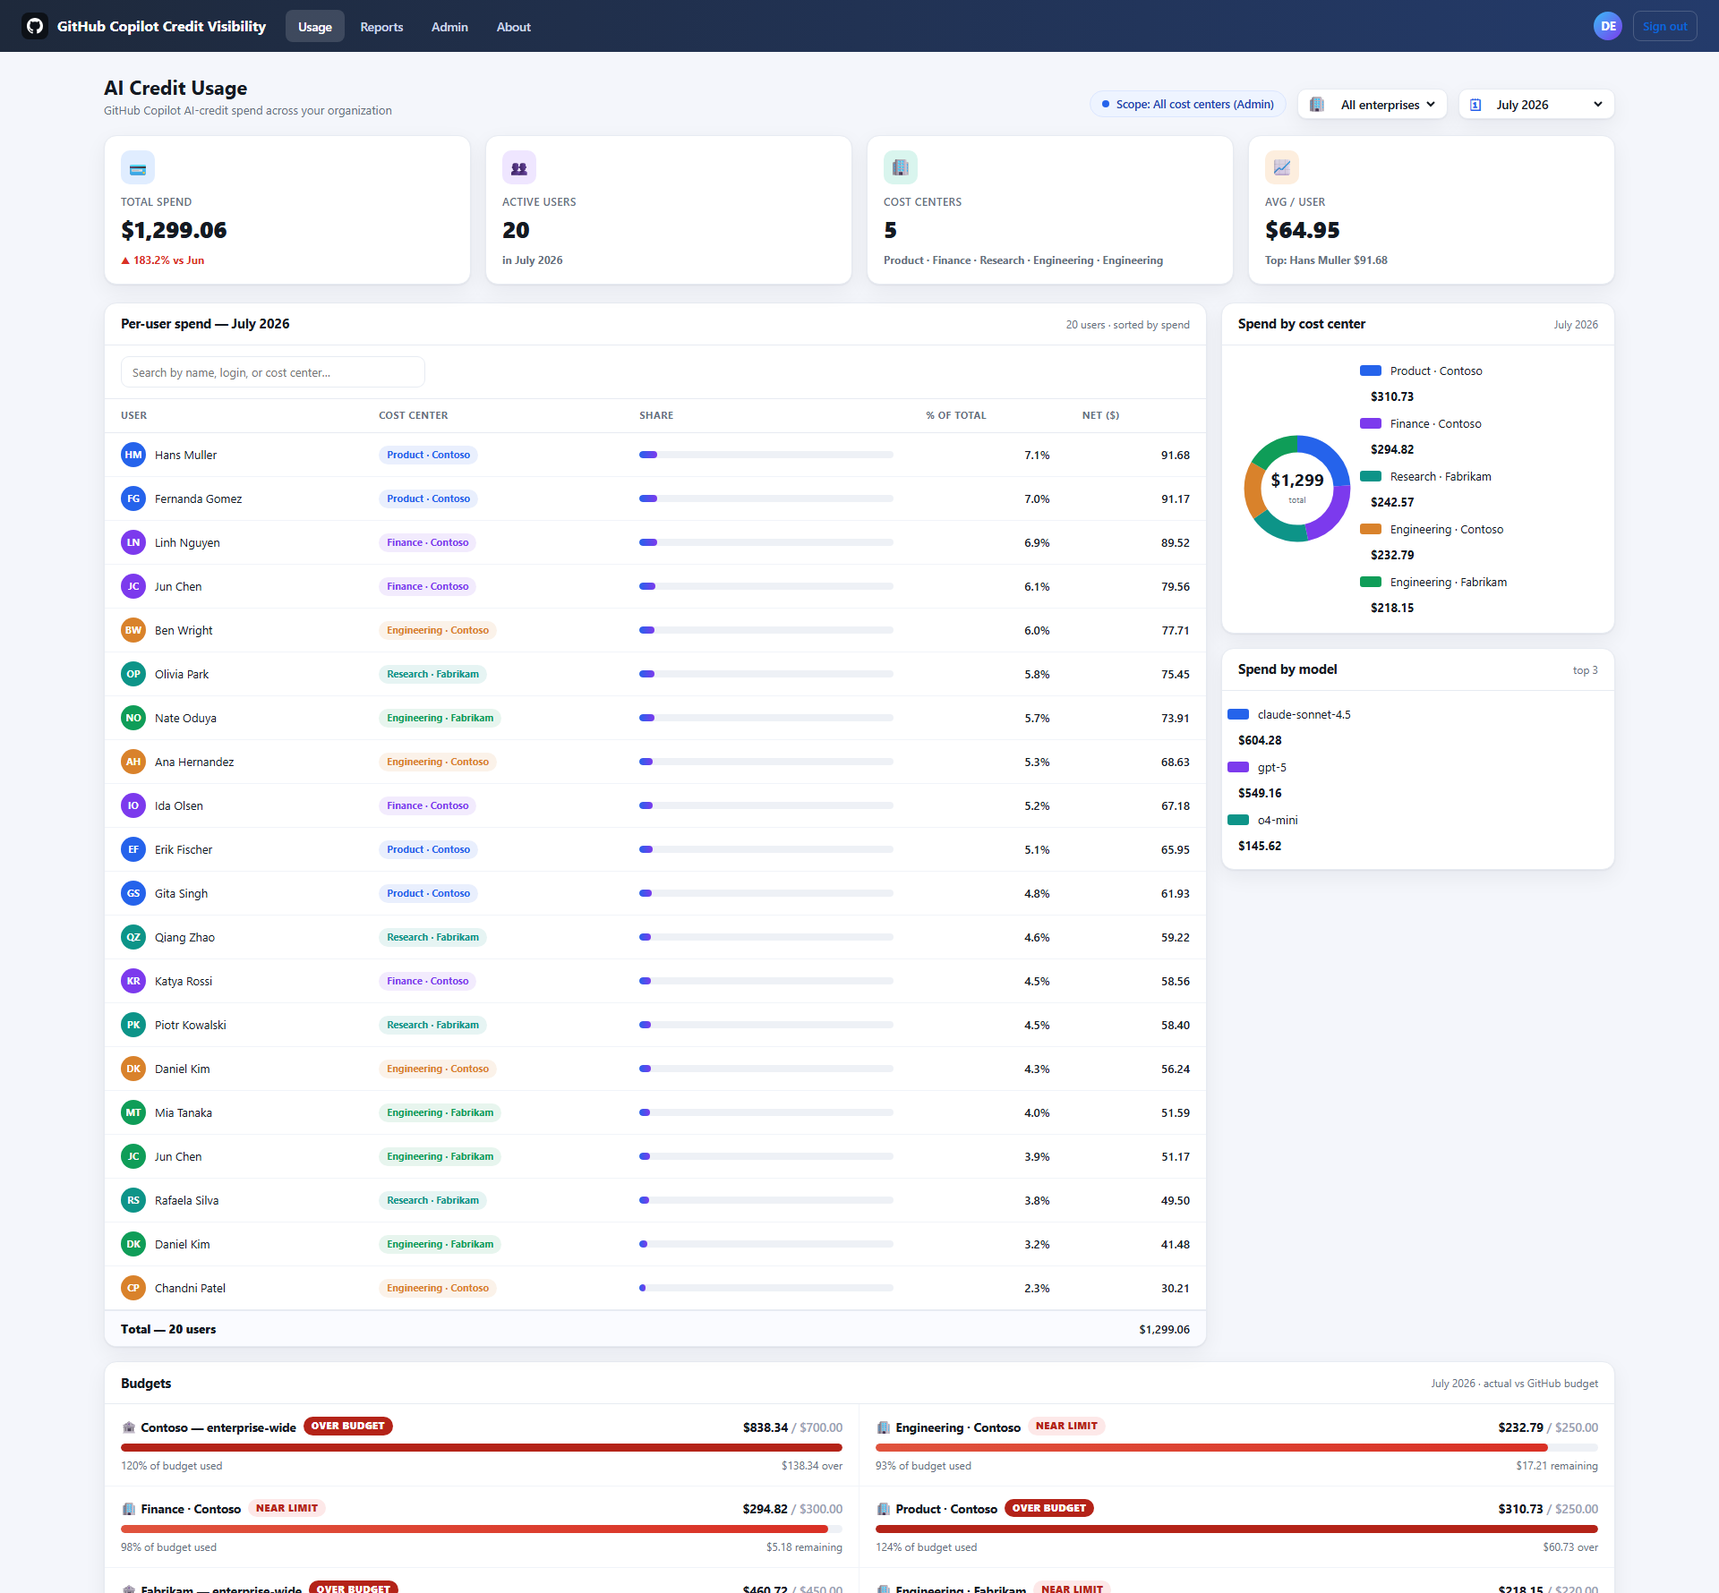
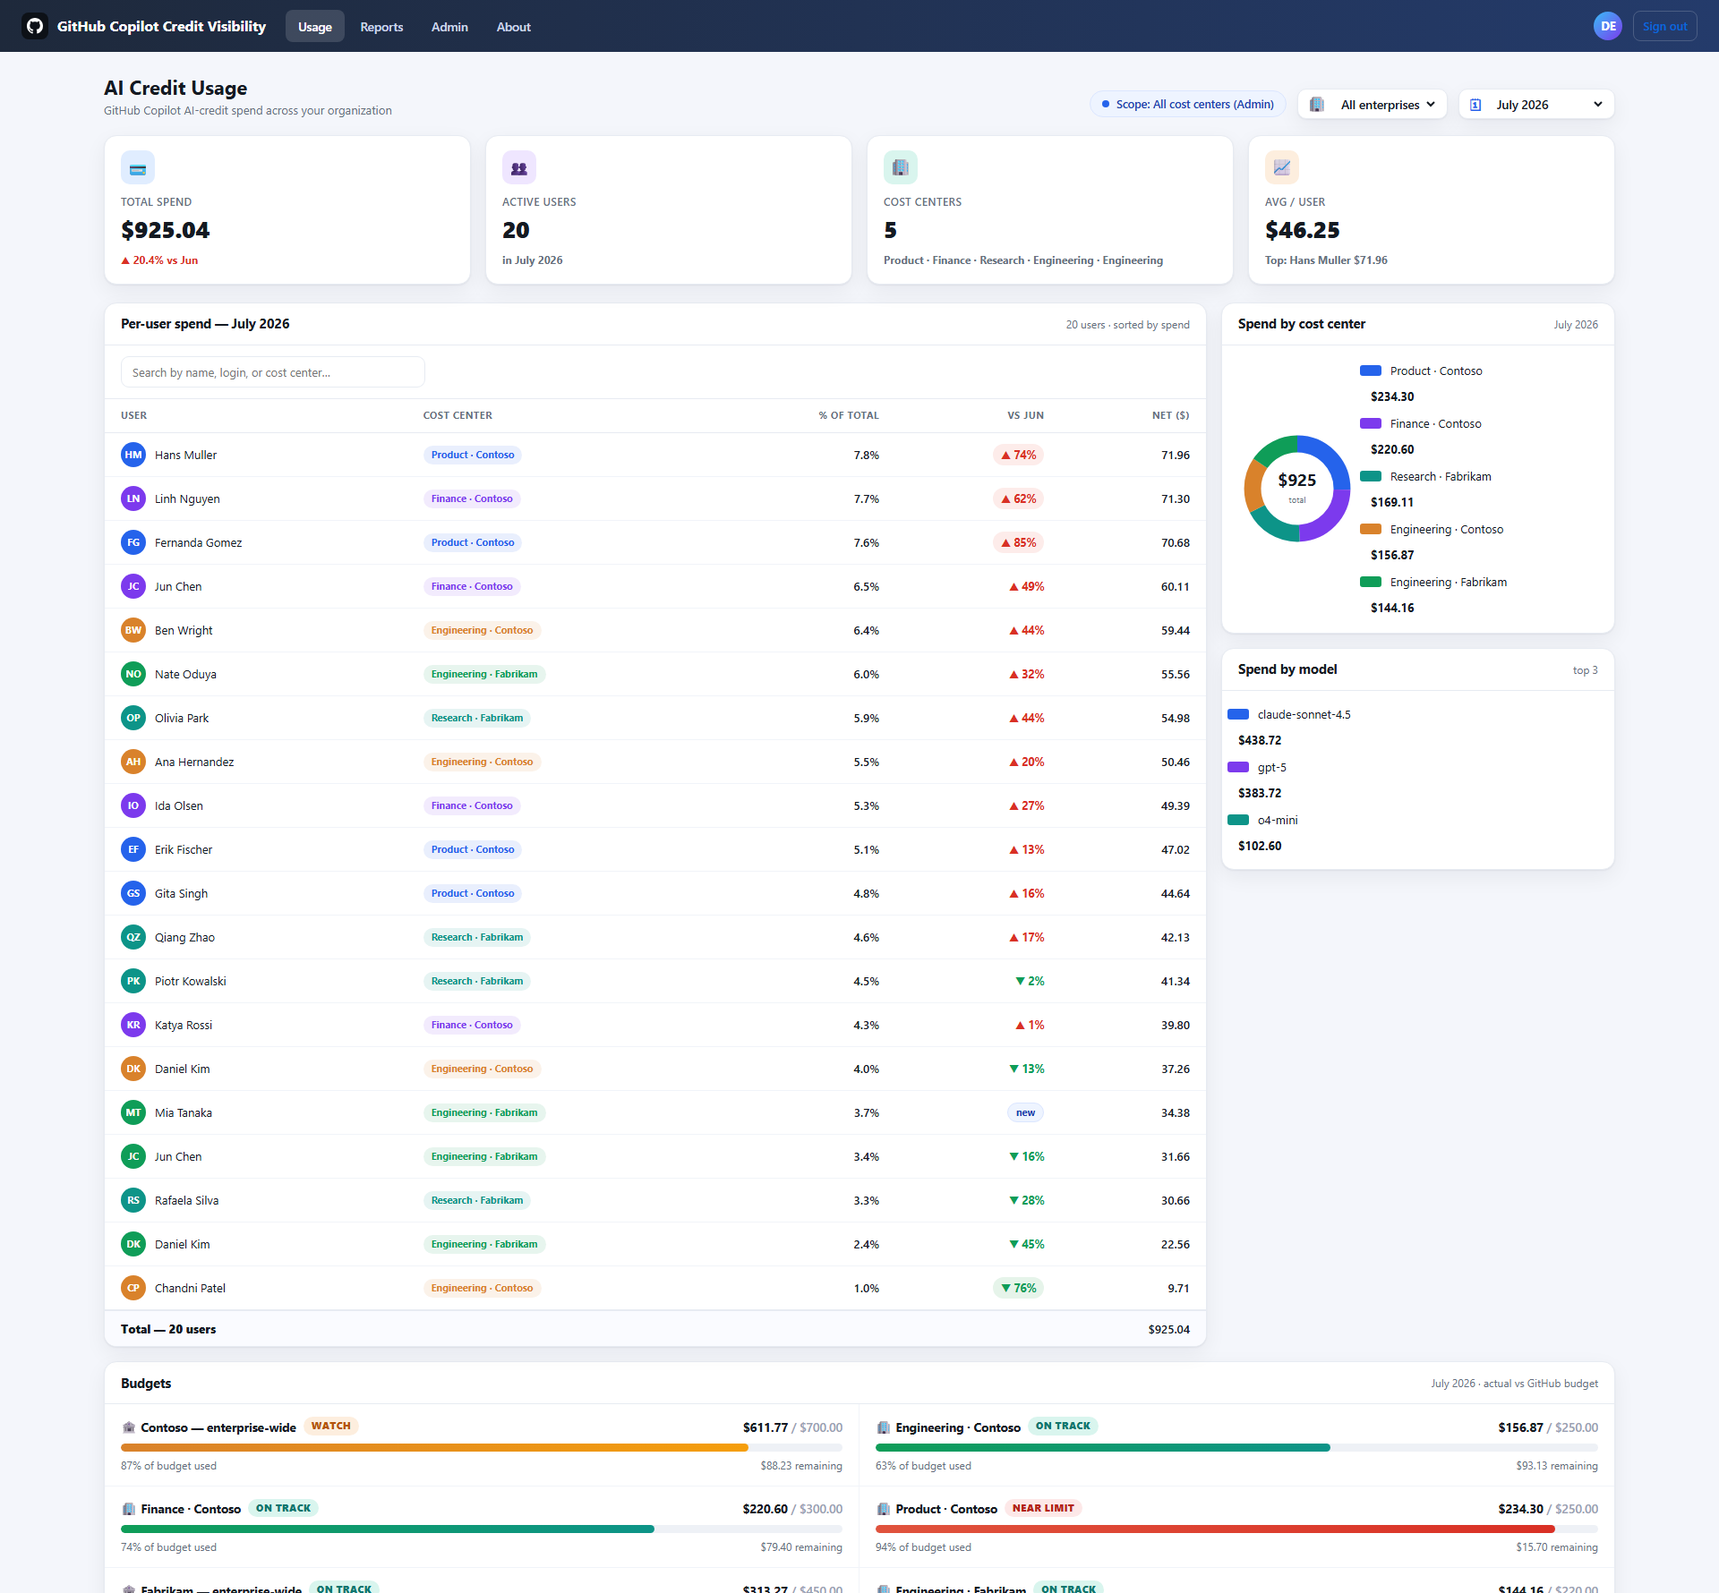
Per-user table: drop the Share bar, add a month-over-month delta column
- The Share bar column duplicated the % of total number while consuming
  the widest flexible column on the page; removed from the dashboard
  per-user table and the Reports breakdown table.
- New "vs <previous month>" column in its place: quiet up/down arrows for
  normal movement, a tinted pill for moves of +/-50% or more (the "who
  suddenly changed" signal), and a "new" badge for first-month spend.
  Deltas join strictly by (enterprise, login) - the same login in two
  enterprises never mixes months across enterprises. When the previous
  month has no data at all (first month / newly onboarded enterprise)
  the column renders em-dashes instead of flagging everyone "new".
- Numeric column HEADERS now right-align with their values (th.num) -
  they previously sat left-aligned over right-aligned numbers.
- Dev-seed fix: fabricated daily history now stops at the end of last
  month (the snapshot job owns the current month), removing the
  double-count that spiked the current month in trends and flagged every
  user as a big mover; daily quantities tuned so months are comparable,
  and mtanaka seeds as a recent joiner to demo the "new" badge.
- Tests: delta join semantics + no-previous-month behavior (40 passing).
- dashboard.png / reports.png recaptured.

diff --git a/GhcpCreditVisibility/wwwroot/css/site.css b/GhcpCreditVisibility/wwwroot/css/site.css
@@ -188,16 +188,23 @@ body { background:var(--gh-bg); color:var(--gh-ink); font-family:'Segoe UI',-app
 .gh-card table{width:100%;border-collapse:collapse;}
 .gh-card th,.gh-card td{padding:10px 18px;text-align:left;font-size:13px;}
 .gh-card thead th{color:var(--gh-muted);font-size:11px;text-transform:uppercase;letter-spacing:.5px;border-bottom:1px solid var(--gh-line);}
+/* Numeric column HEADERS align with their right-aligned values — without this the header sits
+   left-aligned over right-aligned numbers and the column reads as offset. */
+.gh-card th.num{text-align:right;}
 .gh-card tbody tr{border-bottom:1px solid #f1f4f9;}
 .gh-card tbody tr:hover{background:#fafbff;}
 .gh-card td.num{text-align:right;font-variant-numeric:tabular-nums;font-weight:600;}
 .gh-card tfoot td{font-weight:800;border-top:2px solid var(--gh-line);background:#fafbff;}
 .gh-who{display:flex;align-items:center;gap:10px;}
 .gh-mini{width:28px;height:28px;border-radius:50%;display:grid;place-items:center;color:#fff;font-weight:700;font-size:11px;flex:0 0 auto;}
-.gh-barcell{min-width:120px;}
-.gh-bar{height:8px;border-radius:6px;background:#eef1f6;overflow:hidden;}
-.gh-bar > i{display:block;height:100%;border-radius:6px;background:linear-gradient(90deg,var(--gh-brand),var(--gh-brand2));}
 .gh-ccpill{font-size:11px;font-weight:700;padding:2px 9px;border-radius:999px;display:inline-block;}
+/* Month-over-month delta column: quiet arrows for normal movement; a tinted pill for big
+   movers (>= threshold); a "new" badge for first-month spend. */
+.gh-delta{font-variant-numeric:tabular-nums;font-weight:700;font-size:12.5px;white-space:nowrap;}
+.gh-delta.up{color:var(--gh-bad);} .gh-delta.down{color:var(--gh-good);}
+.gh-delta-pill{padding:2px 9px;border-radius:999px;display:inline-block;}
+.gh-delta-pill.up{background:#fdecea;} .gh-delta-pill.down{background:#e6f4ea;}
+.gh-new{font-size:11px;font-weight:700;color:#1e40af;background:#eef4ff;border:1px solid #dbe6ff;padding:2px 9px;border-radius:999px;display:inline-block;}
 
 /* Per-user table search + pagination */
 .gh-usersearch{display:flex;align-items:center;gap:10px;padding:12px 18px;border-bottom:1px solid var(--gh-line);}

diff --git a/GhcpCreditVisibility/Services/UsageQueryService.cs b/GhcpCreditVisibility/Services/UsageQueryService.cs
@@ -18,7 +18,10 @@ namespace GhcpCreditVisibility.Services
         // GrossAmount is carried alongside NetAmount so the dashboard can optionally show real
         // usage activity even when it's fully covered by an included allowance (NetAmount = 0) —
         // see the "Dashboard:ShowGrossUsage" feature flag.
-        public sealed record UserMonthTotal(string UserLogin, string? UserName, string? CostCenterId, string? CostCenterName, decimal NetAmount, decimal GrossAmount = 0m, long EnterpriseId = 0, string? EnterpriseName = null);
+        /// <summary>PrevMonthNetAmount: the same (enterprise, login)'s total for the previous month —
+        /// null when the user had no rows then. Only populated by the paged dashboard query, and only
+        /// meaningful when the page reports the previous month has data at all.</summary>
+        public sealed record UserMonthTotal(string UserLogin, string? UserName, string? CostCenterId, string? CostCenterName, decimal NetAmount, decimal GrossAmount = 0m, long EnterpriseId = 0, string? EnterpriseName = null, decimal? PrevMonthNetAmount = null);
         public sealed record CostCenterTotal(string? CostCenterId, string? CostCenterName, decimal NetAmount, decimal GrossAmount = 0m, long EnterpriseId = 0, string? EnterpriseName = null);
         public sealed record ModelTotal(string Model, decimal NetAmount, decimal GrossAmount = 0m);
         public sealed record TrendPoint(int Year, int Month, decimal NetAmount);
@@ -140,7 +143,11 @@ namespace GhcpCreditVisibility.Services
             decimal TotalSpend,
             decimal TotalGrossSpend,
             decimal MaxUserNet,
-            UserMonthTotal? TopUser);
+            UserMonthTotal? TopUser,
+            // False when the previous month has no rows in scope at all (first month of a
+            // deployment / newly onboarded enterprise): per-user deltas would then flag EVERY
+            // user as "new", which is noise — the UI renders em-dashes instead.
+            bool HasPrevMonthData = false);
 
         /// <summary>
         /// Search + page the per-user monthly breakdown entirely in the database: the GROUP BY, search
@@ -190,10 +197,31 @@ namespace GhcpCreditVisibility.Services
                 .ToListAsync(ct);
             var currentNames = await LoadCurrentNamesAsync(db, ct);
             var entNames = await LoadEnterpriseNamesAsync(db, ct);
+
+            // ── Previous-month per-user totals, for the "vs <prev month>" delta column ──
+            // Same scope, previous calendar month, grouped by (enterprise, login) — the login alone
+            // is NOT the identity (the same login in two enterprises is two billed seats). Only the
+            // current page's logins are fetched.
+            var prevMonthStart = new DateTime(year, month, 1, 0, 0, 0, DateTimeKind.Utc).AddMonths(-1);
+            var prevScoped = ApplyScope(db.UsageSnapshots.Where(x => x.Year == prevMonthStart.Year && x.Month == prevMonthStart.Month), scope);
+            var hasPrevMonthData = await prevScoped.AnyAsync(ct);
+            var prevByUser = new Dictionary<(long EnterpriseId, string UserLogin), decimal>();
+            if (hasPrevMonthData && pageRows.Count > 0)
+            {
+                var pageLogins = pageRows.Select(r => r.UserLogin).Distinct().ToList();
+                var prevRows = await prevScoped
+                    .Where(x => pageLogins.Contains(x.UserLogin))
+                    .GroupBy(x => new { x.EnterpriseId, x.UserLogin })
+                    .Select(g => new { g.Key.EnterpriseId, g.Key.UserLogin, Net = g.Sum(v => v.NetAmount) })
+                    .ToListAsync(ct);
+                prevByUser = prevRows.ToDictionary(r => (r.EnterpriseId, r.UserLogin), r => r.Net);
+            }
+
             var items = pageRows
                 .Select(r => new UserMonthTotal(r.UserLogin, r.UserName, r.CostCenterId,
                     ResolveName(currentNames, r.EnterpriseId, r.CostCenterId, r.CostCenterName),
-                    r.NetAmount, r.GrossAmount, r.EnterpriseId, entNames.GetValueOrDefault(r.EnterpriseId)))
+                    r.NetAmount, r.GrossAmount, r.EnterpriseId, entNames.GetValueOrDefault(r.EnterpriseId),
+                    prevByUser.TryGetValue((r.EnterpriseId, r.UserLogin), out var prevNet) ? prevNet : null))
                 .ToList();
 
             // Month-level KPIs (total spend, top user, distinct user count) are independent of the
@@ -213,7 +241,7 @@ namespace GhcpCreditVisibility.Services
                     ResolveName(currentNames, topRow.EnterpriseId, topRow.CostCenterId, topRow.CostCenterName),
                     topRow.NetAmount, topRow.GrossAmount, topRow.EnterpriseId, entNames.GetValueOrDefault(topRow.EnterpriseId));
 
-            return new UserMonthPage(items, matchingUserCount, totalUserCount, totalSpend, totalGrossSpend, maxUserNet, topUser);
+            return new UserMonthPage(items, matchingUserCount, totalUserCount, totalSpend, totalGrossSpend, maxUserNet, topUser, hasPrevMonthData);
         }
 
         public async Task<IReadOnlyList<CostCenterTotal>> GetCostCenterTotalsAsync(int year, int month, UserScope scope, CancellationToken ct = default)

diff --git a/GhcpCreditVisibility.Tests/MultiEnterpriseTests.cs b/GhcpCreditVisibility.Tests/MultiEnterpriseTests.cs
@@ -301,6 +301,53 @@ public class EnterpriseScopeTests
     }
 
     [Fact]
+    public async Task Prev_month_deltas_join_by_enterprise_and_login()
+    {
+        var factory = NewFactory();
+        await using (var db = await factory.CreateDbContextAsync())
+        {
+            db.Enterprises.Add(new Enterprise { Slug = "contoso", DisplayName = "Contoso", UseMockData = true });
+            db.Enterprises.Add(new Enterprise { Slug = "fabrikam", DisplayName = "Fabrikam", UseMockData = true });
+            // July rows: dkim exists in BOTH enterprises; mtanaka only has July (a "new" user).
+            db.UsageSnapshots.Add(new UsageSnapshot { EnterpriseId = 1, Year = 2026, Month = 7, Day = 1, UserLogin = "dkim", CostCenterId = "cc-a", Model = "gpt-5", Sku = "ai_credits", Product = "copilot", NetAmount = 50m });
+            db.UsageSnapshots.Add(new UsageSnapshot { EnterpriseId = 2, Year = 2026, Month = 7, Day = 1, UserLogin = "dkim", CostCenterId = "cc-b", Model = "gpt-5", Sku = "ai_credits", Product = "copilot", NetAmount = 40m });
+            db.UsageSnapshots.Add(new UsageSnapshot { EnterpriseId = 1, Year = 2026, Month = 7, Day = 1, UserLogin = "mtanaka", CostCenterId = "cc-a", Model = "gpt-5", Sku = "ai_credits", Product = "copilot", NetAmount = 10m });
+            // June rows: dkim spent 25 in enterprise 1 and 80 in enterprise 2 — the deltas must NOT mix.
+            db.UsageSnapshots.Add(new UsageSnapshot { EnterpriseId = 1, Year = 2026, Month = 6, Day = 1, UserLogin = "dkim", CostCenterId = "cc-a", Model = "gpt-5", Sku = "ai_credits", Product = "copilot", NetAmount = 25m });
+            db.UsageSnapshots.Add(new UsageSnapshot { EnterpriseId = 2, Year = 2026, Month = 6, Day = 1, UserLogin = "dkim", CostCenterId = "cc-b", Model = "gpt-5", Sku = "ai_credits", Product = "copilot", NetAmount = 80m });
+            await db.SaveChangesAsync();
+        }
+        var query = new UsageQueryService(factory);
+
+        var page = await query.GetUserTotalsPagedAsync(2026, 7, UserScope.All(), search: null, page: 1, pageSize: 25);
+
+        Assert.True(page.HasPrevMonthData);
+        var dkimEnt1 = page.Items.Single(i => i.UserLogin == "dkim" && i.EnterpriseId == 1);
+        var dkimEnt2 = page.Items.Single(i => i.UserLogin == "dkim" && i.EnterpriseId == 2);
+        Assert.Equal(25m, dkimEnt1.PrevMonthNetAmount); // enterprise 1's June, never enterprise 2's
+        Assert.Equal(80m, dkimEnt2.PrevMonthNetAmount);
+        Assert.Null(page.Items.Single(i => i.UserLogin == "mtanaka").PrevMonthNetAmount); // "new"
+    }
+
+    [Fact]
+    public async Task First_month_of_data_reports_no_prev_month()
+    {
+        var factory = NewFactory();
+        await using (var db = await factory.CreateDbContextAsync())
+        {
+            db.Enterprises.Add(new Enterprise { Slug = "contoso", DisplayName = "Contoso", UseMockData = true });
+            db.UsageSnapshots.Add(new UsageSnapshot { EnterpriseId = 1, Year = 2026, Month = 7, Day = 1, UserLogin = "a", CostCenterId = "cc-a", Model = "gpt-5", Sku = "ai_credits", Product = "copilot", NetAmount = 10m });
+            await db.SaveChangesAsync();
+        }
+        var query = new UsageQueryService(factory);
+
+        var page = await query.GetUserTotalsPagedAsync(2026, 7, UserScope.All(), search: null, page: 1, pageSize: 25);
+
+        // No June data at all: the UI must render em-dashes, not flag every user "new".
+        Assert.False(page.HasPrevMonthData);
+    }
+
+    [Fact]
     public async Task Cross_enterprise_scope_unions_pairs()
     {
         var factory = await SeedTwoEnterprisesAsync();

diff --git a/GhcpCreditVisibility/Pages/Index.cshtml.cs b/GhcpCreditVisibility/Pages/Index.cshtml.cs
@@ -28,6 +28,9 @@ namespace GhcpCreditVisibility.Pages
         [BindProperty(SupportsGet = true)] public long? Ent { get; set; }           // enterprise filter (null = all in scope)
 
         public const int UserPageSize = 25;
+        /// <summary>A month-over-month move of at least this % renders as a highlighted pill in the
+        /// per-user table — the "who suddenly changed" signal.</summary>
+        public const double BigMoveThresholdPct = 50;
 
         public int Year { get; private set; }
         public int Month { get; private set; }
@@ -42,6 +45,8 @@ namespace GhcpCreditVisibility.Pages
         public IReadOnlyList<UsageQueryService.UserMonthTotal> DisplayUsers { get; private set; } = Array.Empty<UsageQueryService.UserMonthTotal>();
         /// <summary>Count of users matching <see cref="UserSearch"/> (all users if no search term) — drives the pagination controls and the "N match" label.</summary>
         public int MatchingUserCount { get; private set; }
+        /// <summary>False when the previous month has no data in scope — per-user deltas render as em-dashes instead of flagging everyone "new".</summary>
+        public bool HasPrevUserDeltas { get; private set; }
         public int UserPageCount { get; private set; } = 1;
         public IReadOnlyList<UsageQueryService.CostCenterTotal> CostCenters { get; private set; } = Array.Empty<UsageQueryService.CostCenterTotal>();
         public IReadOnlyList<UsageQueryService.ModelTotal> Models { get; private set; } = Array.Empty<UsageQueryService.ModelTotal>();
@@ -122,6 +127,7 @@ namespace GhcpCreditVisibility.Pages
             }
             DisplayUsers = userPage.Items;
             MatchingUserCount = userPage.MatchingUserCount;
+            HasPrevUserDeltas = userPage.HasPrevMonthData;
 
             // Headline KPIs derived from the scoped month (independent of search/paging).
             TotalSpend = userPage.TotalSpend;

diff --git a/GhcpCreditVisibility/Services/MockGitHubBillingClient.cs b/GhcpCreditVisibility/Services/MockGitHubBillingClient.cs
@@ -259,12 +259,19 @@ namespace GhcpCreditVisibility.Services
                 bool weekend = day.DayOfWeek is DayOfWeek.Saturday or DayOfWeek.Sunday;
                 foreach (var s in seed.Users)
                 {
+                    // "mtanaka" (fabrikam) is a deliberate recent joiner: no fabricated history, so
+                    // her first snapshot month renders the "new" badge in the per-user delta column.
+                    if (string.Equals(s.Login, "mtanaka", StringComparison.OrdinalIgnoreCase)) continue;
                     var cc = seed.CostCenters.First(c => c.Id == s.CostCenterId);
                     var rng = new Random(StableSeed(enterpriseSlug + "|" + s.Login) + day.Year * 10000 + day.Month * 100 + day.Day);
                     foreach (var (model, price) in Models)
                     {
-                        var qty = rng.Next(0, weekend ? 6 : 22); // credits used that day for this model
-                        if (qty == 0) continue;                  // some days a user doesn't touch a model
+                        // Daily quantities are tuned so a full fabricated month lands in the same
+                        // ballpark as the snapshot job's current-month aggregates (avg ~$40/user) —
+                        // month-over-month deltas then spread realistically around zero instead of
+                        // uniformly spiking on the seam between fabricated and snapshotted months.
+                        var qty = rng.Next(0, weekend ? 10 : 38); // credits used that day for this model
+                        if (qty == 0) continue;                   // some days a user doesn't touch a model
                         var net = Math.Round(qty * price, 2);
                         rows.Add(new Data.UsageSnapshot
                         {

diff --git a/GhcpCreditVisibility/Program.cs b/GhcpCreditVisibility/Program.cs
@@ -147,13 +147,18 @@ if (app.Environment.IsDevelopment() && useLocalDevDb)
     }
     var seedEnterprises = db.Enterprises.OrderBy(e => e.Id).ToList();
 
-    // Backfill synthetic usage history per enterprise so the trend + month selector have data locally.
+    // Backfill synthetic usage history per enterprise so the trend + month selector have data
+    // locally — but only up to the END OF LAST MONTH. The snapshot job owns the current month
+    // (it writes the monthly aggregate rows on startup); seeding daily rows for the current month
+    // too would DOUBLE-COUNT it, spiking the trend chart and flagging every user as a big
+    // month-over-month mover.
     if (!db.UsageSnapshots.Any())
     {
+        var endOfLastMonth = new DateTime(DateTime.UtcNow.Year, DateTime.UtcNow.Month, 1, 0, 0, 0, DateTimeKind.Utc).AddDays(-1);
         foreach (var e in seedEnterprises)
         {
             db.UsageSnapshots.AddRange(
-                GhcpCreditVisibility.Services.MockGitHubBillingClient.BuildHistorySnapshots(12, DateTime.UtcNow, e.Id, e.Slug));
+                GhcpCreditVisibility.Services.MockGitHubBillingClient.BuildHistorySnapshots(12, endOfLastMonth, e.Id, e.Slug));
         }
     }
     if (!db.PrincipalCostCenterMappings.Any())
